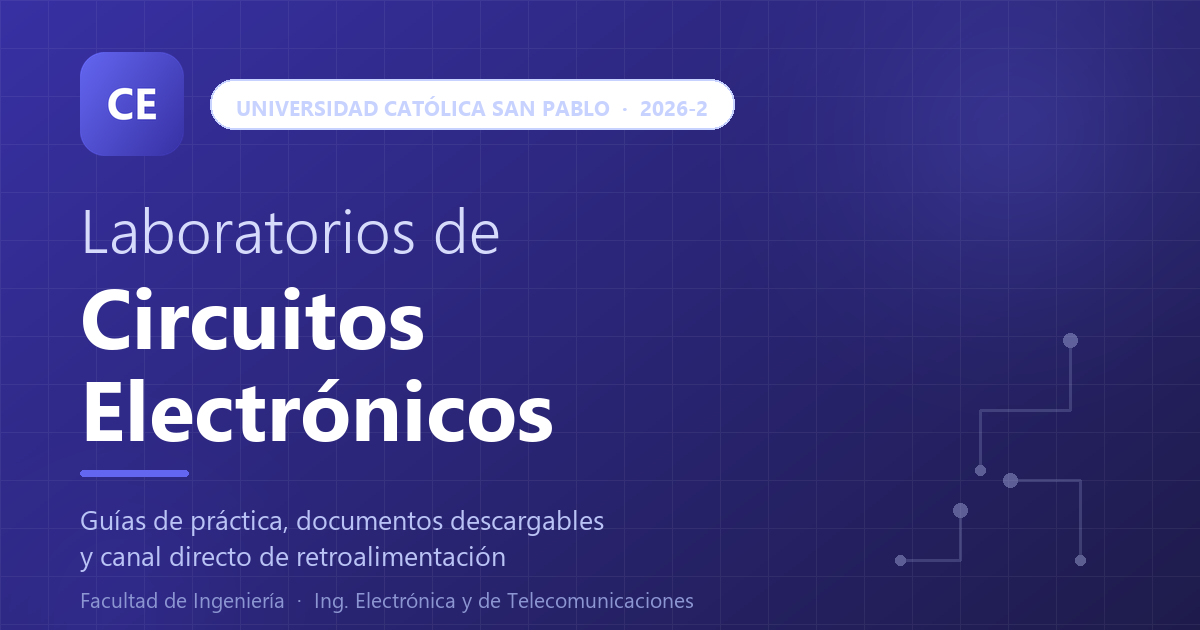
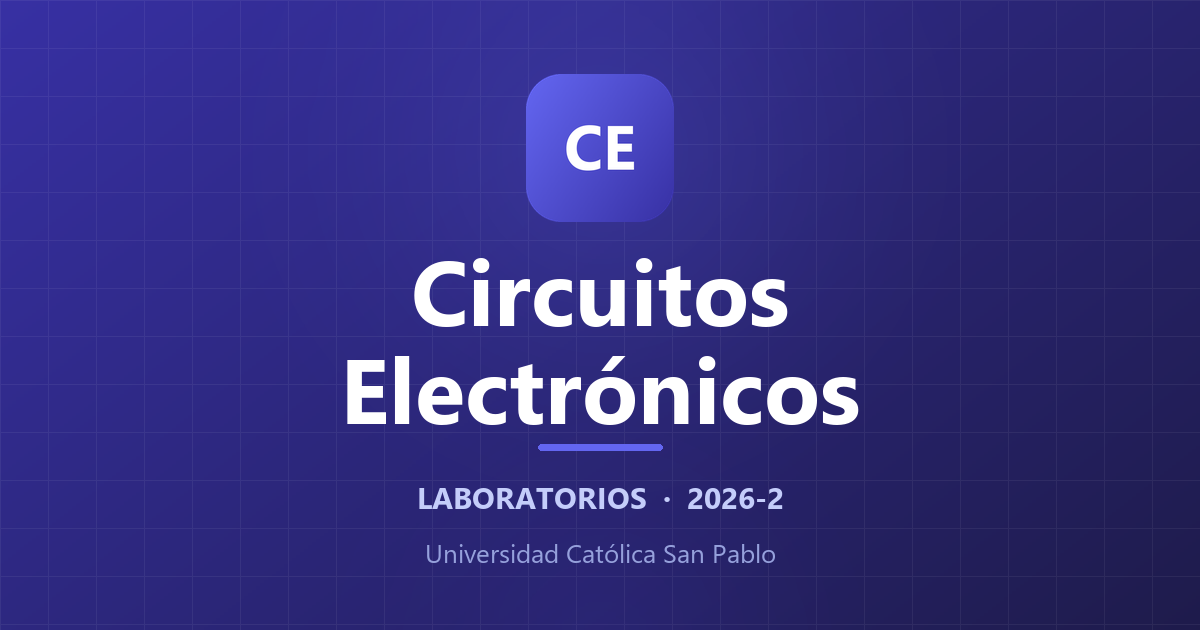
Tarjeta social legible en la miniatura de WhatsApp
WhatsApp no muestra la tarjeta ancha: recorta un cuadrado del centro y lo
reduce a unos 128 px. Con el diseno anterior, alineado a la izquierda y con
cuatro lineas de texto, el recorte cortaba las palabras y nada resultaba
legible.

Ahora todo va centrado dentro de la zona segura (el cuadrado central de
630x630) y solo queda el texto imprescindible: logo CE, nombre del curso en
cuerpo grande y dos lineas cortas de contexto. La descripcion larga vive en
og:description, que los clientes muestran como texto aparte.

De paso se elimina un bloque duplicado que habia quedado en el generador y
que hacia que la definicion antigua sobrescribiera a la nueva.

diff --git a/herramientas/generar_metadatos.py b/herramientas/generar_metadatos.py
@@ -131,57 +131,52 @@ def placa_ce(lado, radio_rel=0.22, cuerpo=0.44):
 
 # --------------------------------------------------------------- tarjeta social
 def tarjeta_og(salida):
+    """
+    Tarjeta de previsualizacion, 1200x630.
+
+    Diseno pensado para sobrevivir al recorte: WhatsApp y varios clientes de
+    mensajeria no muestran la tarjeta ancha, sino un CUADRADO recortado del
+    centro y reducido a pocos pixeles. Por eso:
+
+      - Todo el contenido va centrado y dentro de la zona segura (el cuadrado
+        central de 630x630, es decir x entre 285 y 915).
+      - Poco texto y muy grande: en la miniatura solo debe leerse el nombre
+        del curso. Las descripciones largas se quedan en las etiquetas
+        og:description, que si se muestran como texto aparte.
+    """
     W, H = 1200, 630
+    CX = W // 2
+    SEGURO = (W - H) // 2  # 285: borde izquierdo del recorte cuadrado
+
     img = degradado((W, H), INDIGO_800, INDIGO_950)
     img = trama_circuito(img, paso=48, alfa=15)
-    img = resplandor(img, (1010, 130), 340, INDIGO_500, 80)
-    img = resplandor(img, (120, 600), 260, INDIGO_700, 55)
-    img = pistas(img, [
-        (980, 470, [(0, -60), (90, 0), (0, -70)]),
-        (1080, 560, [(0, -80), (-70, 0)]),
-        (900, 560, [(60, 0), (0, -50)]),
-    ])
-
-    X = 80
-
-    # --- logo CE, el mismo que el favicon
-    LOGO, LOGO_Y = 104, 52
-    logo = placa_ce(LOGO, radio_rel=0.24, cuerpo=0.42)
-    img.paste(logo, (X, LOGO_Y), logo)
+    img = resplandor(img, (CX, 150), 420, INDIGO_500, 70)
+    img = resplandor(img, (CX, 640), 320, INDIGO_700, 45)
 
     d = ImageDraw.Draw(img)
 
-    # --- distintivo, a la derecha del logo y alineado con su centro
-    f_badge = ImageFont.truetype(NEGRITA, 21)
-    texto = 'UNIVERSIDAD CATÓLICA SAN PABLO  ·  2026-2'
-    caja = d.textbbox((0, 0), texto, font=f_badge)
-    pw, ph = caja[2] - caja[0], caja[3] - caja[1]
-    bx = X + LOGO + 26
-    alto_pastilla = ph + 30
-    by = LOGO_Y + (LOGO - alto_pastilla) // 2
-    d.rounded_rectangle([bx, by, bx + pw + 52, by + alto_pastilla], radius=24,
-                        fill=(255, 255, 255, 26), outline=(*INDIGO_200, 70), width=2)
-    d.text((bx + 26, by + 14), texto, font=f_badge, fill=INDIGO_200)
+    # --- logo CE, centrado
+    LOGO = 148
+    logo = placa_ce(LOGO, radio_rel=0.24, cuerpo=0.42)
+    img.paste(logo, (CX - LOGO // 2, 74), logo)
+    d = ImageDraw.Draw(img)
 
-    # --- titulo
-    f1 = ImageFont.truetype(LIGERA, 62)
-    f2 = ImageFont.truetype(NEGRITA, 84)
-    d.text((X, 186), 'Laboratorios de', font=f1, fill=(214, 219, 252))
-    d.text((X, 258), 'Circuitos', font=f2, fill=BLANCO)
-    d.text((X, 350), 'Electrónicos', font=f2, fill=BLANCO)
+    # --- nombre del curso: lo unico que debe leerse en la miniatura
+    f_titulo = ImageFont.truetype(NEGRITA, 92)
+    d.text((CX, 288), 'Circuitos', font=f_titulo, fill=BLANCO, anchor='mm')
+    d.text((CX, 386), 'Electrónicos', font=f_titulo, fill=BLANCO, anchor='mm')
 
     # --- linea de acento
-    d.rounded_rectangle([X, 470, X + 108, 476], radius=3, fill=INDIGO_500)
+    d.rounded_rectangle([CX - 62, 444, CX + 62, 450], radius=3, fill=INDIGO_500)
 
-    # --- descripcion
-    f3 = ImageFont.truetype(NORMAL, 27)
-    d.text((X, 500), 'Guías de práctica, documentos descargables', font=f3, fill=(186, 195, 245))
-    d.text((X, 536), 'y canal directo de retroalimentación', font=f3, fill=(186, 195, 245))
+    # --- contexto, en una sola linea corta
+    f_sub = ImageFont.truetype(NEGRITA, 30)
+    d.text((CX, 496), 'LABORATORIOS  ·  2026-2', font=f_sub, fill=(196, 205, 250),
+           anchor='mm')
 
-    # --- pie
-    f4 = ImageFont.truetype(NORMAL, 21)
-    d.text((X, 585), 'Facultad de Ingeniería  ·  Ing. Electrónica y de Telecomunicaciones',
-           font=f4, fill=(140, 150, 210))
+    f_pie = ImageFont.truetype(NORMAL, 26)
+    d.text((CX, 552), 'Universidad Católica San Pablo', font=f_pie,
+           fill=(150, 161, 220), anchor='mm')
 
     img.convert('RGB').save(salida, 'PNG', optimize=True)
     return salida
